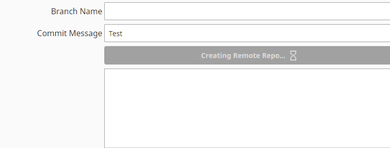
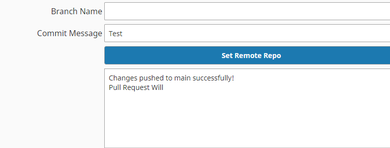
Added Note To Branch

Changed region(s): [[0.2462, 0.2973, 1.0, 0.4324], [0.2769, 0.4865, 0.6154, 0.6216]]

diff --git a/GitTesting_2025-01-24_0858_2025-02-04_1132/ignition/script-python/gitScripts/code.py b/GitTesting_2025-01-24_0858_2025-02-04_1132/ignition/script-python/gitScripts/code.py
@@ -114,7 +114,7 @@ def push_to_main(local_repo_path, commit_message, branch=None, user=""):
 		# Force push to the main branch
 		subprocess.check_call(["git", "-C", local_repo_path, "push", "-u", "origin", branch])
 		logger.info("Changes pushed to main successfully!")
-		message='{}\n{}'.format("Changes pushed to main successfully!", "Pull Request Will ")
+		message='Changes pushed to main successfully!\nPull Request for Branch "{}" Will Need to Be Merged Into Main'.format(branch)
 	except subprocess.CalledProcessError as e:
 		message="Error during Git operation: {}".format(e)
 		logger.info(message)
